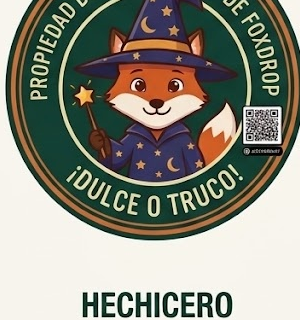
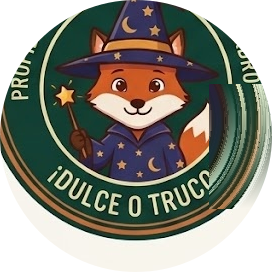
fix: remover qr original del borde derecho y recortar circulo perfecto de los 3 stickers

diff --git a/src/components/AdminCampaignsTab.tsx b/src/components/AdminCampaignsTab.tsx
@@ -848,10 +848,10 @@ export default function AdminCampaignsTab({ onNotify }: AdminCampaignsTabProps) 
                             <div
                               className={`absolute z-10 flex flex-col items-center justify-center bg-white p-1 rounded-xl shadow-lg border border-slate-300 ${
                                 qrPosition === 'center_bottom'
-                                  ? 'bottom-8 inset-x-0 mx-auto'
+                                  ? 'bottom-3 inset-x-0 mx-auto'
                                   : qrPosition === 'center_total'
                                   ? 'inset-0 m-auto'
-                                  : 'bottom-7 right-4'
+                                  : 'top-1/2 -translate-y-1/2 right-3'
                               }`}
                               style={{
                                 width: `${qrSizeMm * 2.2}px`,
